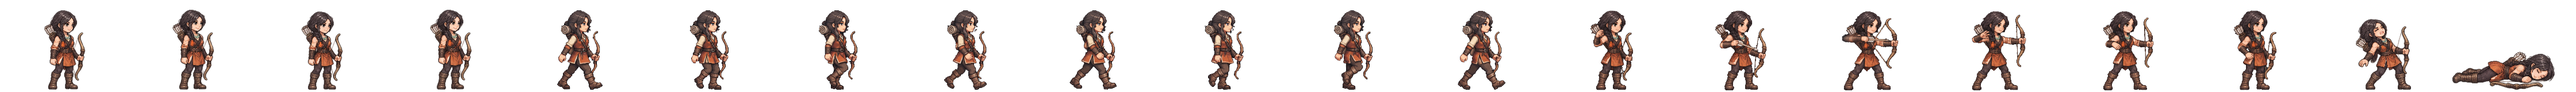
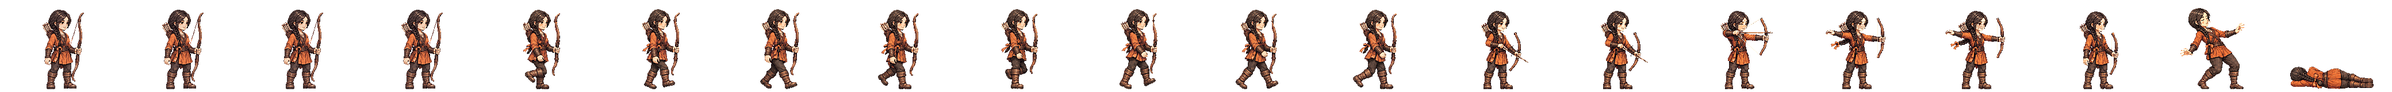
사로 노을 새 전투 띠를 게임에 넣음(서기·걷기·활 쏘기·쓰러짐·댕기 고쳐 매기)
활 쏘기의 활이 서기보다 조금 짧다(다시 그리기를 그림 도구가 거절 · 앞 판을 씀).
띠 검사 합격 · 시험 2162 통과.

Claude-Session: https://claude.ai/code/session_01TRiuN7s6aDfSnaHxrkctmU

diff --git a/src/realm/data/spritePx.ts b/src/realm/data/spritePx.ts
@@ -1,3 +1,3 @@
 /** public/realm/anim-px/manifest.json 의 사본 — tools/sprite-normalize.mjs 가 만든다 (손으로 고치지 말 것). 칸 [가로, 세로] · feet = 발 줄(칸 위에서 y) · bodyPx = 서 있는 몸 키 */
 import { expandManifest } from './sprite-manifest.ts'
-export const SPRITE_PX: Readonly<Record<string, { readonly cell: readonly [number, number]; readonly feet: number; readonly bodyPx: number; readonly kind: 'general' | 'soldier' | 'folk' | 'crowd'; readonly cells: number }>> = expandManifest<{ readonly cell: readonly [number, number]; readonly feet: number; readonly bodyPx: number; readonly kind: 'general' | 'soldier' | 'folk' | 'crowd'; readonly cells: number }>([{"cell":[166,128],"feet":126,"bodyPx":124,"kind":"soldier","cells":20},{"cell":[116,128],"feet":126,"bodyPx":117,"kind":"soldier","cells":20},{"cell":[127,128],"feet":126,"bodyPx":116,"kind":"soldier","cells":20},{"cell":[269,128],"feet":126,"bodyPx":126,"kind":"soldier","cells":20},{"cell":[503,128],"feet":126,"bodyPx":127,"kind":"soldier","cells":20},{"cell":[614,128],"feet":126,"bodyPx":126,"kind":"soldier","cells":20},{"cell":[200,160],"feet":156,"bodyPx":138,"kind":"general","cells":20},{"cell":[208,160],"feet":155,"bodyPx":138,"kind":"general","cells":20},{"cell":[208,160],"feet":154,"bodyPx":138,"kind":"general","cells":20},{"cell":[304,160],"feet":155,"bodyPx":135,"kind":"general","cells":20},{"cell":[224,160],"feet":156,"bodyPx":139,"kind":"general","cells":20},{"cell":[184,160],"feet":156,"bodyPx":138,"kind":"general","cells":20},{"cell":[208,160],"feet":154,"bodyPx":136,"kind":"general","cells":20},{"cell":[240,160],"feet":156,"bodyPx":138,"kind":"general","cells":20},{"cell":[232,160],"feet":156,"bodyPx":138,"kind":"general","cells":20},{"cell":[208,160],"feet":156,"bodyPx":138,"kind":"general","cells":20},{"cell":[168,160],"feet":156,"bodyPx":138,"kind":"general","cells":20},{"cell":[192,160],"feet":156,"bodyPx":138,"kind":"general","cells":20},{"cell":[168,160],"feet":156,"bodyPx":124,"kind":"general","cells":20},{"cell":[216,160],"feet":156,"bodyPx":130,"kind":"general","cells":20},{"cell":[200,160],"feet":156,"bodyPx":116,"kind":"general","cells":20},{"cell":[200,160],"feet":156,"bodyPx":135,"kind":"general","cells":20},{"cell":[280,160],"feet":156,"bodyPx":138,"kind":"general","cells":20},{"cell":[232,160],"feet":155,"bodyPx":138,"kind":"general","cells":20},{"cell":[232,160],"feet":156,"bodyPx":134,"kind":"general","cells":20},{"cell":[144,160],"feet":156,"bodyPx":70,"kind":"general","cells":20},{"cell":[208,160],"feet":156,"bodyPx":70,"kind":"general","cells":20},{"cell":[192,160],"feet":156,"bodyPx":70,"kind":"general","cells":20},{"cell":[240,160],"feet":155,"bodyPx":138,"kind":"general","cells":20},{"cell":[160,160],"feet":156,"bodyPx":135,"kind":"general","cells":20},{"cell":[192,160],"feet":156,"bodyPx":128,"kind":"general","cells":20},{"cell":[224,160],"feet":155,"bodyPx":138,"kind":"general","cells":20},{"cell":[232,160],"feet":156,"bodyPx":139,"kind":"general","cells":20},{"cell":[264,160],"feet":155,"bodyPx":138,"kind":"general","cells":20},{"cell":[216,160],"feet":156,"bodyPx":138,"kind":"general","cells":20},{"cell":[208,160],"feet":156,"bodyPx":134,"kind":"general","cells":20},{"cell":[176,160],"feet":156,"bodyPx":130,"kind":"general","cells":20},{"cell":[248,160],"feet":156,"bodyPx":138,"kind":"general","cells":20},{"cell":[248,160],"feet":155,"bodyPx":138,"kind":"general","cells":20},{"cell":[192,160],"feet":155,"bodyPx":138,"kind":"general","cells":20},{"cell":[192,160],"feet":156,"bodyPx":124,"kind":"general","cells":20},{"cell":[208,160],"feet":154,"bodyPx":131,"kind":"general","cells":20},{"cell":[256,160],"feet":156,"bodyPx":138,"kind":"general","cells":20},{"cell":[232,160],"feet":156,"bodyPx":73,"kind":"general","cells":20},{"cell":[256,160],"feet":155,"bodyPx":138,"kind":"general","cells":20},{"cell":[224,160],"feet":156,"bodyPx":138,"kind":"general","cells":20},{"cell":[264,160],"feet":156,"bodyPx":138,"kind":"general","cells":20},{"cell":[224,160],"feet":156,"bodyPx":128,"kind":"general","cells":20},{"cell":[176,160],"feet":156,"bodyPx":129,"kind":"general","cells":20},{"cell":[208,160],"feet":156,"bodyPx":132,"kind":"general","cells":20},{"cell":[216,160],"feet":155,"bodyPx":138,"kind":"general","cells":20},{"cell":[184,160],"feet":156,"bodyPx":122,"kind":"general","cells":20},{"cell":[176,160],"feet":156,"bodyPx":138,"kind":"general","cells":20},{"cell":[280,160],"feet":155,"bodyPx":133,"kind":"general","cells":20},{"cell":[176,160],"feet":156,"bodyPx":70,"kind":"general","cells":20},{"cell":[186,128],"feet":126,"bodyPx":127,"kind":"soldier","cells":20},{"cell":[298,128],"feet":126,"bodyPx":126,"kind":"soldier","cells":20},{"cell":[82,128],"feet":126,"bodyPx":114,"kind":"folk","cells":8},{"cell":[134,128],"feet":126,"bodyPx":119,"kind":"soldier","cells":20},{"cell":[380,128],"feet":126,"bodyPx":124,"kind":"soldier","cells":20},{"cell":[114,128],"feet":126,"bodyPx":115,"kind":"soldier","cells":20},{"cell":[122,128],"feet":126,"bodyPx":114,"kind":"soldier","cells":20},{"cell":[254,128],"feet":126,"bodyPx":128,"kind":"soldier","cells":20},{"cell":[438,128],"feet":126,"bodyPx":126,"kind":"soldier","cells":20},{"cell":[88,128],"feet":126,"bodyPx":113,"kind":"folk","cells":8},{"cell":[100,128],"feet":126,"bodyPx":115,"kind":"folk","cells":8},{"cell":[108,128],"feet":126,"bodyPx":115,"kind":"folk","cells":8},{"cell":[63,128],"feet":126,"bodyPx":113,"kind":"folk","cells":8},{"cell":[69,96],"feet":96,"bodyPx":96,"kind":"crowd","cells":1},{"cell":[54,96],"feet":96,"bodyPx":96,"kind":"crowd","cells":1},{"cell":[47,96],"feet":96,"bodyPx":96,"kind":"crowd","cells":1},{"cell":[49,96],"feet":96,"bodyPx":96,"kind":"crowd","cells":1},{"cell":[57,96],"feet":96,"bodyPx":96,"kind":"crowd","cells":1},{"cell":[55,96],"feet":96,"bodyPx":96,"kind":"crowd","cells":1},{"cell":[45,96],"feet":96,"bodyPx":96,"kind":"crowd","cells":1},{"cell":[53,96],"feet":96,"bodyPx":96,"kind":"crowd","cells":1},{"cell":[64,96],"feet":96,"bodyPx":96,"kind":"crowd","cells":1},{"cell":[208,160],"feet":154,"bodyPx":139,"kind":"general","cells":20},{"cell":[184,160],"feet":156,"bodyPx":124,"kind":"general","cells":20},{"cell":[184,160],"feet":156,"bodyPx":134,"kind":"general","cells":20},{"cell":[224,160],"feet":156,"bodyPx":133,"kind":"general","cells":20},{"cell":[192,160],"feet":156,"bodyPx":135,"kind":"general","cells":20},{"cell":[184,160],"feet":156,"bodyPx":137,"kind":"general","cells":20},{"cell":[216,160],"feet":156,"bodyPx":134,"kind":"general","cells":20},{"cell":[216,160],"feet":156,"bodyPx":132,"kind":"general","cells":20},{"cell":[288,160],"feet":156,"bodyPx":138,"kind":"general","cells":20},{"cell":[192,160],"feet":156,"bodyPx":118,"kind":"general","cells":20},{"cell":[192,160],"feet":156,"bodyPx":134,"kind":"general","cells":20},{"cell":[192,160],"feet":157,"bodyPx":139,"kind":"general","cells":20},{"cell":[184,160],"feet":156,"bodyPx":128,"kind":"general","cells":20},{"cell":[240,160],"feet":156,"bodyPx":128,"kind":"general","cells":20},{"cell":[184,160],"feet":156,"bodyPx":132,"kind":"general","cells":20},{"cell":[208,160],"feet":156,"bodyPx":123,"kind":"general","cells":20},{"cell":[208,160],"feet":154,"bodyPx":137,"kind":"general","cells":20},{"cell":[176,160],"feet":156,"bodyPx":116,"kind":"general","cells":20},{"cell":[272,160],"feet":156,"bodyPx":138,"kind":"general","cells":20},{"cell":[176,160],"feet":156,"bodyPx":122,"kind":"general","cells":20},{"cell":[232,160],"feet":156,"bodyPx":127,"kind":"general","cells":20},{"cell":[176,160],"feet":156,"bodyPx":137,"kind":"general","cells":20},{"cell":[184,160],"feet":156,"bodyPx":133,"kind":"general","cells":20}],[["axe",0],["bandit-chief",1],["bandit-club",2],["boat",3],["bow",4],["crossbow",5],["gen-adogan",6],["gen-alpyeong",7],["gen-ara",8],["gen-areum",8],["gen-aryeong",9],["gen-bakdal",6],["gen-baram",10],["gen-bdanbi",11],["gen-beom",12],["gen-beombal",11],["gen-beomi",13],["gen-bira",14],["gen-biryu",15],["gen-budeul",16],["gen-byeol",17],["gen-daemusin",18],["gen-daeso",19],["gen-dallae2",11],["gen-dalli",11],["gen-damul",20],["gen-danbi",15],["gen-dangung",17],["gen-darae",21],["gen-dokmudeom",7],["gen-duman",22],["gen-eomni",23],["gen-eureum",24],["gen-g-bow",25],["gen-g-spear",26],["gen-g-sword",27],["gen-gaennae",6],["gen-gamsil",28],["gen-gaon",29],["gen-geota",15],["gen-geumbawi",11],["gen-geumha",30],["gen-goeun",15],["gen-gom",31],["gen-gomok",15],["gen-gureum",28],["gen-guryema",17],["gen-gwaeyu",14],["gen-haebi",8],["gen-haedal",6],["gen-haesol",32],["gen-halla",7],["gen-heo",33],["gen-hneoul",11],["gen-hogong",34],["gen-hojin",15],["gen-horselord",35],["gen-hwalmi",36],["gen-hyeokgeose",17],["gen-hyeopbo",6],["gen-irang",15],["gen-jibaekho",37],["gen-jinha",38],["gen-jita",39],["gen-jumong",40],["gen-keundol",7],["gen-maehwa",41],["gen-maenun",17],["gen-malgalgi",42],["gen-mari",13],["gen-maro",37],["gen-maryeo",15],["gen-mdallae",32],["gen-mir",6],["gen-mount",43],["gen-mulbeom",44],["gen-mulsae",34],["gen-musoe",34],["gen-noeul",45],["gen-nuri",46],["gen-ocheongan",45],["gen-odi",38],["gen-odogan",6],["gen-ogan",17],["gen-oi",47],["gen-olddaeso",24],["gen-onjo",48],["gen-pidogan",15],["gen-sagong",31],["gen-sdallae",6],["gen-sincheongan",34],["gen-singwigan",34],["gen-sinneoul",23],["gen-sobeol",23],["gen-soebi",6],["gen-soebo",49],["gen-soenun",37],["gen-sogeumbi",50],["gen-songbi",45],["gen-songyang",51],["gen-sori",52],["gen-soseono",53],["gen-suro",17],["gen-tahae",6],["gen-tneoul",45],["gen-w-bow",25],["gen-w-spear",54],["gen-waechief",15],["gen-wan",34],["gen-yeodogan",15],["gen-yucheongan",15],["gen-yusugan",37],["horse",55],["marine",56],["migrant",57],["militia",58],["pike",59],["pirate-captain",60],["pirate-sword",61],["shield",62],["spear",63],["villager-builder",64],["villager-farmer",65],["villager-porter",66],["villager-woman",67],["crowd-b1",68],["crowd-b2",69],["crowd-b3",70],["crowd-b4",71],["crowd-b5",72],["crowd-b6",73],["crowd-f1",68],["crowd-f2",73],["crowd-f3",74],["crowd-f4",75],["crowd-f5",68],["crowd-f6",76],["gen-dalbit",15],["gen-base-g-07-drunk-warrior",17],["gen-base-g-40-anya-adan",15],["gen-base-w-13-young-archer",8],["gen-base-g-03-sea-trader",13],["gen-base-w-10-pirate-captain",77],["gen-base-w-64-miri-dallae",77],["gen-base-g-41-goja-bau",13],["gen-base-g-42-dokro-garam",46],["gen-base-g-09-farmer-conscript",34],["gen-base-w-02-goguryeo-lady",34],["gen-base-w-17-mahan-pearl-diver",8],["gen-base-g-17-saro-isageum",49],["gen-base-g-18-daegaya-king",78],["gen-base-g-35-dabeol-dalgu",15],["gen-base-g-19-sabeol-veteran",34],["gen-base-w-23-usisan-whale-queen",34],["gen-base-g-36-gammun-gamdol",45],["gen-base-g-20-samul-sea-lord",42],["gen-base-g-37-eumjeup-jeup",11],["gen-base-g-38-chopal-palmae",17],["gen-base-w-75-daegaya-soemoe",17],["gen-base-g-45-dabeol-deulgae",11],["gen-base-g-04-jinhan-giant",15],["gen-base-g-08-veteran",15],["gen-base-w-18-jinhan-salt-widow",15],["gen-base-w-12-court-dancer",79],["gen-base-w-83-gyeonji-beodeul",80],["gen-base-w-05-baekje-queen",81],["gen-base-w-21-baekje-court-dancer",11],["gen-base-g-01-master-smith",82],["gen-base-g-93-jomun-solgae",36],["gen-base-g-57-bihwa-neup",13],["gen-base-w-72-eumjeup-beol",15],["gen-base-w-102-garak-dana",34],["gen-base-g-68-baekje-onnuri",15],["gen-base-w-27-mokji-jinha",6],["gen-base-g-22-ungcheon-gomnae",6],["gen-base-g-23-sangdang-soedal",15],["gen-base-g-24-wansan-onsan",6],["gen-base-g-25-balla-keunmoe",34],["gen-base-g-61-heomcheuk-bawi",34],["gen-base-g-88-wander-soeul",45],["gen-base-w-14-feast-spy",6],["gen-base-g-12-silla-youth",83],["gen-base-w-08-mahan-warrior",13],["gen-base-g-62-beonye-hanul",13],["gen-base-g-63-heomcheuk-beogeum",15],["gen-base-g-84-wander-seoneul",15],["gen-base-w-50-siljik-mulga",34],["gen-base-g-46-uga-nureongso",34],["gen-base-w-80-usan-gangchi",13],["gen-base-g-47-guga-sanyanggae",34],["gen-base-w-76-gampyeong-baetsagong",37],["gen-base-g-05-mahan-chieftain",84],["gen-base-g-58-usan-uhae",15],["gen-base-g-27-maek-maekdol",15],["gen-base-w-53-hwanna-gabi",16],["gen-base-w-29-golpo-janmul",37],["gen-base-g-53-baekje-haeru",6],["gen-base-w-71-yeonna-neoul",13],["gen-base-w-79-yangmaek-solmae",34],["gen-base-w-34-chopal-deulme",46],["gen-base-g-44-maga-malgup",85],["gen-base-w-31-dabeol-dalbit",77],["gen-base-g-51-biryuna-mulgyeol",45],["gen-base-g-48-gwanna-musoe",15],["gen-base-g-32-uga-sodu",14],["gen-base-g-49-goguryeo-sona",86],["gen-base-g-30-gwanna-soemoe",45],["gen-base-g-52-tamna-oreum",11],["gen-base-g-29-yeonna-myeongsol",40],["gen-base-w-56-dongokjeo-sogeum",87],["gen-base-g-54-mokji-mahan",14],["gen-base-g-33-jeoga-metdol",17],["gen-base-w-36-baekje-maena",17],["gen-base-w-38-sangdang-bulmae",6],["gen-base-w-39-gosaburi-galmae",88],["gen-base-w-40-mujin-munui",49],["gen-base-w-41-hwanna-beodeul",89],["gen-base-w-43-uga-nuri",42],["gen-base-w-45-tamna-oreumbi",11],["gen-base-g-60-golbeol-golgae",11],["gen-base-g-61-apdok-ap",34],["gen-base-g-62-gammun-gamnamu",6],["gen-base-g-63-chopal-yeoul",37],["gen-base-g-64-michuhol-sogeumkkun",13],["gen-base-g-65-sangdang-soemangchi",45],["gen-base-g-66-geonma-malbalgup",90],["gen-base-g-67-gosaburi-buri",91],["gen-base-g-68-mujin-bitgoeul",11],["gen-base-g-69-goryong-yong",45],["gen-base-g-70-siljik-pado",13],["gen-base-w-81-byeokjin-byeolbit",14],["gen-base-w-46-geonma-maru",37],["gen-base-w-48-mujin-mudeung",13],["gen-base-g-26-gampyeong-gaetbeol",14],["gen-base-g-60-eupcha-hangyeol",92],["gen-base-g-15-shaman-man",34],["gen-base-g-85-wander-ure",37],["gen-base-g-43-hwanna-amnok",15],["gen-base-g-50-bullae-gwaha",81],["gen-base-g-55-saro-bakdal",15],["gen-base-g-56-haseulla-gwahama",6],["gen-base-w-06-buyeo-huntress",93],["gen-base-w-22-dongye-tiger-huntress",8],["gen-base-w-25-bihwa-priestess",34],["gen-base-w-24-apdok-queen",11],["gen-base-w-61-iseo-sinae",15],["gen-base-w-26-iseo-tomboy-general",46],["gen-base-g-59-yangmaek-maekson",94],["gen-aw1-haebi",45],["gen-aw1-soseono",95],["gen-aw1-gamsil",11],["gen-aw1-mir",52],["gen-aw1-dangung",6],["gen-aw1-ara",45],["gen-aw1-jumong",96],["gen-aw1-onjo",97],["gen-aw1-base-w-83-gyeonji-beodeul",17],["gen-aw1-heo",46],["gen-aw1-base-g-38-chopal-palmae",6],["gen-aw1-base-w-25-bihwa-priestess",79],["gen-aw1-sori",16],["gen-aw1-gomok",6],["gen-aw1-irang",17],["gen-aw1-budeul",16],["gen-aw1-gom",13],["gen-aw1-sdallae",6],["gen-aw1-base-w-13-young-archer",6],["gen-aw1-base-w-36-baekje-maena",98],["gen-aw1-base-g-09-farmer-conscript",46],["gen-aw1-base-w-02-goguryeo-lady",99],["gen-aw1-haedal",11],["gen-aw1-hogong",6],["gen-aw1-maehwa",52],["gen-aw1-base-w-06-buyeo-huntress",14],["gen-aw1-base-w-08-mahan-warrior",45],["gen-aw1-base-w-29-golpo-janmul",45],["gen-aw1-base-w-31-dabeol-dalbit",17],["gen-aw1-base-w-38-sangdang-bulmae",16],["gen-aw1-bira",34],["gen-aw1-base-w-53-hwanna-gabi",16],["gen-aw1-base-w-56-dongokjeo-sogeum",52],["gen-aw1-base-w-72-eumjeup-beol",17],["gen-aw1-bdanbi",16],["gen-aw1-beom",11],["gen-aw1-beombal",11],["gen-aw1-byeol",17],["gen-aw1-dalli",52],["gen-aw1-malgalgi",37],["gen-aw1-sincheongan",34]])
+export const SPRITE_PX: Readonly<Record<string, { readonly cell: readonly [number, number]; readonly feet: number; readonly bodyPx: number; readonly kind: 'general' | 'soldier' | 'folk' | 'crowd'; readonly cells: number }>> = expandManifest<{ readonly cell: readonly [number, number]; readonly feet: number; readonly bodyPx: number; readonly kind: 'general' | 'soldier' | 'folk' | 'crowd'; readonly cells: number }>([{"cell":[166,128],"feet":126,"bodyPx":124,"kind":"soldier","cells":20},{"cell":[116,128],"feet":126,"bodyPx":117,"kind":"soldier","cells":20},{"cell":[127,128],"feet":126,"bodyPx":116,"kind":"soldier","cells":20},{"cell":[269,128],"feet":126,"bodyPx":126,"kind":"soldier","cells":20},{"cell":[503,128],"feet":126,"bodyPx":127,"kind":"soldier","cells":20},{"cell":[614,128],"feet":126,"bodyPx":126,"kind":"soldier","cells":20},{"cell":[200,160],"feet":156,"bodyPx":138,"kind":"general","cells":20},{"cell":[208,160],"feet":155,"bodyPx":138,"kind":"general","cells":20},{"cell":[208,160],"feet":154,"bodyPx":138,"kind":"general","cells":20},{"cell":[304,160],"feet":155,"bodyPx":135,"kind":"general","cells":20},{"cell":[224,160],"feet":156,"bodyPx":139,"kind":"general","cells":20},{"cell":[184,160],"feet":156,"bodyPx":138,"kind":"general","cells":20},{"cell":[208,160],"feet":154,"bodyPx":136,"kind":"general","cells":20},{"cell":[240,160],"feet":156,"bodyPx":138,"kind":"general","cells":20},{"cell":[232,160],"feet":156,"bodyPx":138,"kind":"general","cells":20},{"cell":[208,160],"feet":156,"bodyPx":138,"kind":"general","cells":20},{"cell":[168,160],"feet":156,"bodyPx":138,"kind":"general","cells":20},{"cell":[192,160],"feet":156,"bodyPx":138,"kind":"general","cells":20},{"cell":[168,160],"feet":156,"bodyPx":124,"kind":"general","cells":20},{"cell":[216,160],"feet":156,"bodyPx":130,"kind":"general","cells":20},{"cell":[200,160],"feet":156,"bodyPx":116,"kind":"general","cells":20},{"cell":[200,160],"feet":156,"bodyPx":135,"kind":"general","cells":20},{"cell":[280,160],"feet":156,"bodyPx":138,"kind":"general","cells":20},{"cell":[232,160],"feet":155,"bodyPx":138,"kind":"general","cells":20},{"cell":[232,160],"feet":156,"bodyPx":134,"kind":"general","cells":20},{"cell":[144,160],"feet":156,"bodyPx":70,"kind":"general","cells":20},{"cell":[208,160],"feet":156,"bodyPx":70,"kind":"general","cells":20},{"cell":[192,160],"feet":156,"bodyPx":70,"kind":"general","cells":20},{"cell":[240,160],"feet":155,"bodyPx":138,"kind":"general","cells":20},{"cell":[160,160],"feet":156,"bodyPx":135,"kind":"general","cells":20},{"cell":[192,160],"feet":156,"bodyPx":128,"kind":"general","cells":20},{"cell":[224,160],"feet":155,"bodyPx":138,"kind":"general","cells":20},{"cell":[232,160],"feet":156,"bodyPx":139,"kind":"general","cells":20},{"cell":[264,160],"feet":155,"bodyPx":138,"kind":"general","cells":20},{"cell":[216,160],"feet":156,"bodyPx":138,"kind":"general","cells":20},{"cell":[208,160],"feet":156,"bodyPx":134,"kind":"general","cells":20},{"cell":[176,160],"feet":156,"bodyPx":130,"kind":"general","cells":20},{"cell":[248,160],"feet":156,"bodyPx":138,"kind":"general","cells":20},{"cell":[248,160],"feet":155,"bodyPx":138,"kind":"general","cells":20},{"cell":[192,160],"feet":155,"bodyPx":138,"kind":"general","cells":20},{"cell":[192,160],"feet":156,"bodyPx":124,"kind":"general","cells":20},{"cell":[208,160],"feet":154,"bodyPx":131,"kind":"general","cells":20},{"cell":[256,160],"feet":156,"bodyPx":138,"kind":"general","cells":20},{"cell":[232,160],"feet":156,"bodyPx":73,"kind":"general","cells":20},{"cell":[256,160],"feet":155,"bodyPx":138,"kind":"general","cells":20},{"cell":[264,160],"feet":156,"bodyPx":138,"kind":"general","cells":20},{"cell":[224,160],"feet":156,"bodyPx":138,"kind":"general","cells":20},{"cell":[224,160],"feet":156,"bodyPx":128,"kind":"general","cells":20},{"cell":[176,160],"feet":156,"bodyPx":129,"kind":"general","cells":20},{"cell":[208,160],"feet":156,"bodyPx":132,"kind":"general","cells":20},{"cell":[216,160],"feet":155,"bodyPx":138,"kind":"general","cells":20},{"cell":[184,160],"feet":156,"bodyPx":122,"kind":"general","cells":20},{"cell":[176,160],"feet":156,"bodyPx":138,"kind":"general","cells":20},{"cell":[280,160],"feet":155,"bodyPx":133,"kind":"general","cells":20},{"cell":[176,160],"feet":156,"bodyPx":70,"kind":"general","cells":20},{"cell":[186,128],"feet":126,"bodyPx":127,"kind":"soldier","cells":20},{"cell":[298,128],"feet":126,"bodyPx":126,"kind":"soldier","cells":20},{"cell":[82,128],"feet":126,"bodyPx":114,"kind":"folk","cells":8},{"cell":[134,128],"feet":126,"bodyPx":119,"kind":"soldier","cells":20},{"cell":[380,128],"feet":126,"bodyPx":124,"kind":"soldier","cells":20},{"cell":[114,128],"feet":126,"bodyPx":115,"kind":"soldier","cells":20},{"cell":[122,128],"feet":126,"bodyPx":114,"kind":"soldier","cells":20},{"cell":[254,128],"feet":126,"bodyPx":128,"kind":"soldier","cells":20},{"cell":[438,128],"feet":126,"bodyPx":126,"kind":"soldier","cells":20},{"cell":[88,128],"feet":126,"bodyPx":113,"kind":"folk","cells":8},{"cell":[100,128],"feet":126,"bodyPx":115,"kind":"folk","cells":8},{"cell":[108,128],"feet":126,"bodyPx":115,"kind":"folk","cells":8},{"cell":[63,128],"feet":126,"bodyPx":113,"kind":"folk","cells":8},{"cell":[69,96],"feet":96,"bodyPx":96,"kind":"crowd","cells":1},{"cell":[54,96],"feet":96,"bodyPx":96,"kind":"crowd","cells":1},{"cell":[47,96],"feet":96,"bodyPx":96,"kind":"crowd","cells":1},{"cell":[49,96],"feet":96,"bodyPx":96,"kind":"crowd","cells":1},{"cell":[57,96],"feet":96,"bodyPx":96,"kind":"crowd","cells":1},{"cell":[55,96],"feet":96,"bodyPx":96,"kind":"crowd","cells":1},{"cell":[45,96],"feet":96,"bodyPx":96,"kind":"crowd","cells":1},{"cell":[53,96],"feet":96,"bodyPx":96,"kind":"crowd","cells":1},{"cell":[64,96],"feet":96,"bodyPx":96,"kind":"crowd","cells":1},{"cell":[208,160],"feet":154,"bodyPx":139,"kind":"general","cells":20},{"cell":[184,160],"feet":156,"bodyPx":124,"kind":"general","cells":20},{"cell":[184,160],"feet":156,"bodyPx":134,"kind":"general","cells":20},{"cell":[224,160],"feet":156,"bodyPx":133,"kind":"general","cells":20},{"cell":[192,160],"feet":156,"bodyPx":135,"kind":"general","cells":20},{"cell":[184,160],"feet":156,"bodyPx":137,"kind":"general","cells":20},{"cell":[216,160],"feet":156,"bodyPx":134,"kind":"general","cells":20},{"cell":[216,160],"feet":156,"bodyPx":132,"kind":"general","cells":20},{"cell":[288,160],"feet":156,"bodyPx":138,"kind":"general","cells":20},{"cell":[192,160],"feet":156,"bodyPx":118,"kind":"general","cells":20},{"cell":[192,160],"feet":156,"bodyPx":134,"kind":"general","cells":20},{"cell":[192,160],"feet":157,"bodyPx":139,"kind":"general","cells":20},{"cell":[184,160],"feet":156,"bodyPx":128,"kind":"general","cells":20},{"cell":[240,160],"feet":156,"bodyPx":128,"kind":"general","cells":20},{"cell":[184,160],"feet":156,"bodyPx":132,"kind":"general","cells":20},{"cell":[208,160],"feet":156,"bodyPx":123,"kind":"general","cells":20},{"cell":[208,160],"feet":154,"bodyPx":137,"kind":"general","cells":20},{"cell":[176,160],"feet":156,"bodyPx":116,"kind":"general","cells":20},{"cell":[272,160],"feet":156,"bodyPx":138,"kind":"general","cells":20},{"cell":[176,160],"feet":156,"bodyPx":122,"kind":"general","cells":20},{"cell":[232,160],"feet":156,"bodyPx":127,"kind":"general","cells":20},{"cell":[176,160],"feet":156,"bodyPx":137,"kind":"general","cells":20},{"cell":[184,160],"feet":156,"bodyPx":133,"kind":"general","cells":20}],[["axe",0],["bandit-chief",1],["bandit-club",2],["boat",3],["bow",4],["crossbow",5],["gen-adogan",6],["gen-alpyeong",7],["gen-ara",8],["gen-areum",8],["gen-aryeong",9],["gen-bakdal",6],["gen-baram",10],["gen-bdanbi",11],["gen-beom",12],["gen-beombal",11],["gen-beomi",13],["gen-bira",14],["gen-biryu",15],["gen-budeul",16],["gen-byeol",17],["gen-daemusin",18],["gen-daeso",19],["gen-dallae2",11],["gen-dalli",11],["gen-damul",20],["gen-danbi",15],["gen-dangung",17],["gen-darae",21],["gen-dokmudeom",7],["gen-duman",22],["gen-eomni",23],["gen-eureum",24],["gen-g-bow",25],["gen-g-spear",26],["gen-g-sword",27],["gen-gaennae",6],["gen-gamsil",28],["gen-gaon",29],["gen-geota",15],["gen-geumbawi",11],["gen-geumha",30],["gen-goeun",15],["gen-gom",31],["gen-gomok",15],["gen-gureum",28],["gen-guryema",17],["gen-gwaeyu",14],["gen-haebi",8],["gen-haedal",6],["gen-haesol",32],["gen-halla",7],["gen-heo",33],["gen-hneoul",11],["gen-hogong",34],["gen-hojin",15],["gen-horselord",35],["gen-hwalmi",36],["gen-hyeokgeose",17],["gen-hyeopbo",6],["gen-irang",15],["gen-jibaekho",37],["gen-jinha",38],["gen-jita",39],["gen-jumong",40],["gen-keundol",7],["gen-maehwa",41],["gen-maenun",17],["gen-malgalgi",42],["gen-mari",13],["gen-maro",37],["gen-maryeo",15],["gen-mdallae",32],["gen-mir",6],["gen-mount",43],["gen-mulbeom",44],["gen-mulsae",34],["gen-musoe",34],["gen-noeul",8],["gen-nuri",45],["gen-ocheongan",46],["gen-odi",38],["gen-odogan",6],["gen-ogan",17],["gen-oi",47],["gen-olddaeso",24],["gen-onjo",48],["gen-pidogan",15],["gen-sagong",31],["gen-sdallae",6],["gen-sincheongan",34],["gen-singwigan",34],["gen-sinneoul",23],["gen-sobeol",23],["gen-soebi",6],["gen-soebo",49],["gen-soenun",37],["gen-sogeumbi",50],["gen-songbi",46],["gen-songyang",51],["gen-sori",52],["gen-soseono",53],["gen-suro",17],["gen-tahae",6],["gen-tneoul",46],["gen-w-bow",25],["gen-w-spear",54],["gen-waechief",15],["gen-wan",34],["gen-yeodogan",15],["gen-yucheongan",15],["gen-yusugan",37],["horse",55],["marine",56],["migrant",57],["militia",58],["pike",59],["pirate-captain",60],["pirate-sword",61],["shield",62],["spear",63],["villager-builder",64],["villager-farmer",65],["villager-porter",66],["villager-woman",67],["crowd-b1",68],["crowd-b2",69],["crowd-b3",70],["crowd-b4",71],["crowd-b5",72],["crowd-b6",73],["crowd-f1",68],["crowd-f2",73],["crowd-f3",74],["crowd-f4",75],["crowd-f5",68],["crowd-f6",76],["gen-dalbit",15],["gen-base-g-07-drunk-warrior",17],["gen-base-g-40-anya-adan",15],["gen-base-w-13-young-archer",8],["gen-base-g-03-sea-trader",13],["gen-base-w-10-pirate-captain",77],["gen-base-w-64-miri-dallae",77],["gen-base-g-41-goja-bau",13],["gen-base-g-42-dokro-garam",45],["gen-base-g-09-farmer-conscript",34],["gen-base-w-02-goguryeo-lady",34],["gen-base-w-17-mahan-pearl-diver",8],["gen-base-g-17-saro-isageum",49],["gen-base-g-18-daegaya-king",78],["gen-base-g-35-dabeol-dalgu",15],["gen-base-g-19-sabeol-veteran",34],["gen-base-w-23-usisan-whale-queen",34],["gen-base-g-36-gammun-gamdol",46],["gen-base-g-20-samul-sea-lord",42],["gen-base-g-37-eumjeup-jeup",11],["gen-base-g-38-chopal-palmae",17],["gen-base-w-75-daegaya-soemoe",17],["gen-base-g-45-dabeol-deulgae",11],["gen-base-g-04-jinhan-giant",15],["gen-base-g-08-veteran",15],["gen-base-w-18-jinhan-salt-widow",15],["gen-base-w-12-court-dancer",79],["gen-base-w-83-gyeonji-beodeul",80],["gen-base-w-05-baekje-queen",81],["gen-base-w-21-baekje-court-dancer",11],["gen-base-g-01-master-smith",82],["gen-base-g-93-jomun-solgae",36],["gen-base-g-57-bihwa-neup",13],["gen-base-w-72-eumjeup-beol",15],["gen-base-w-102-garak-dana",34],["gen-base-g-68-baekje-onnuri",15],["gen-base-w-27-mokji-jinha",6],["gen-base-g-22-ungcheon-gomnae",6],["gen-base-g-23-sangdang-soedal",15],["gen-base-g-24-wansan-onsan",6],["gen-base-g-25-balla-keunmoe",34],["gen-base-g-61-heomcheuk-bawi",34],["gen-base-g-88-wander-soeul",46],["gen-base-w-14-feast-spy",6],["gen-base-g-12-silla-youth",83],["gen-base-w-08-mahan-warrior",13],["gen-base-g-62-beonye-hanul",13],["gen-base-g-63-heomcheuk-beogeum",15],["gen-base-g-84-wander-seoneul",15],["gen-base-w-50-siljik-mulga",34],["gen-base-g-46-uga-nureongso",34],["gen-base-w-80-usan-gangchi",13],["gen-base-g-47-guga-sanyanggae",34],["gen-base-w-76-gampyeong-baetsagong",37],["gen-base-g-05-mahan-chieftain",84],["gen-base-g-58-usan-uhae",15],["gen-base-g-27-maek-maekdol",15],["gen-base-w-53-hwanna-gabi",16],["gen-base-w-29-golpo-janmul",37],["gen-base-g-53-baekje-haeru",6],["gen-base-w-71-yeonna-neoul",13],["gen-base-w-79-yangmaek-solmae",34],["gen-base-w-34-chopal-deulme",45],["gen-base-g-44-maga-malgup",85],["gen-base-w-31-dabeol-dalbit",77],["gen-base-g-51-biryuna-mulgyeol",46],["gen-base-g-48-gwanna-musoe",15],["gen-base-g-32-uga-sodu",14],["gen-base-g-49-goguryeo-sona",86],["gen-base-g-30-gwanna-soemoe",46],["gen-base-g-52-tamna-oreum",11],["gen-base-g-29-yeonna-myeongsol",40],["gen-base-w-56-dongokjeo-sogeum",87],["gen-base-g-54-mokji-mahan",14],["gen-base-g-33-jeoga-metdol",17],["gen-base-w-36-baekje-maena",17],["gen-base-w-38-sangdang-bulmae",6],["gen-base-w-39-gosaburi-galmae",88],["gen-base-w-40-mujin-munui",49],["gen-base-w-41-hwanna-beodeul",89],["gen-base-w-43-uga-nuri",42],["gen-base-w-45-tamna-oreumbi",11],["gen-base-g-60-golbeol-golgae",11],["gen-base-g-61-apdok-ap",34],["gen-base-g-62-gammun-gamnamu",6],["gen-base-g-63-chopal-yeoul",37],["gen-base-g-64-michuhol-sogeumkkun",13],["gen-base-g-65-sangdang-soemangchi",46],["gen-base-g-66-geonma-malbalgup",90],["gen-base-g-67-gosaburi-buri",91],["gen-base-g-68-mujin-bitgoeul",11],["gen-base-g-69-goryong-yong",46],["gen-base-g-70-siljik-pado",13],["gen-base-w-81-byeokjin-byeolbit",14],["gen-base-w-46-geonma-maru",37],["gen-base-w-48-mujin-mudeung",13],["gen-base-g-26-gampyeong-gaetbeol",14],["gen-base-g-60-eupcha-hangyeol",92],["gen-base-g-15-shaman-man",34],["gen-base-g-85-wander-ure",37],["gen-base-g-43-hwanna-amnok",15],["gen-base-g-50-bullae-gwaha",81],["gen-base-g-55-saro-bakdal",15],["gen-base-g-56-haseulla-gwahama",6],["gen-base-w-06-buyeo-huntress",93],["gen-base-w-22-dongye-tiger-huntress",8],["gen-base-w-25-bihwa-priestess",34],["gen-base-w-24-apdok-queen",11],["gen-base-w-61-iseo-sinae",15],["gen-base-w-26-iseo-tomboy-general",45],["gen-base-g-59-yangmaek-maekson",94],["gen-aw1-haebi",46],["gen-aw1-soseono",95],["gen-aw1-gamsil",11],["gen-aw1-mir",52],["gen-aw1-dangung",6],["gen-aw1-ara",46],["gen-aw1-jumong",96],["gen-aw1-onjo",97],["gen-aw1-base-w-83-gyeonji-beodeul",17],["gen-aw1-heo",45],["gen-aw1-base-g-38-chopal-palmae",6],["gen-aw1-base-w-25-bihwa-priestess",79],["gen-aw1-sori",16],["gen-aw1-gomok",6],["gen-aw1-irang",17],["gen-aw1-budeul",16],["gen-aw1-gom",13],["gen-aw1-sdallae",6],["gen-aw1-base-w-13-young-archer",6],["gen-aw1-base-w-36-baekje-maena",98],["gen-aw1-base-g-09-farmer-conscript",45],["gen-aw1-base-w-02-goguryeo-lady",99],["gen-aw1-haedal",11],["gen-aw1-hogong",6],["gen-aw1-maehwa",52],["gen-aw1-base-w-06-buyeo-huntress",14],["gen-aw1-base-w-08-mahan-warrior",46],["gen-aw1-base-w-29-golpo-janmul",46],["gen-aw1-base-w-31-dabeol-dalbit",17],["gen-aw1-base-w-38-sangdang-bulmae",16],["gen-aw1-bira",34],["gen-aw1-base-w-53-hwanna-gabi",16],["gen-aw1-base-w-56-dongokjeo-sogeum",52],["gen-aw1-base-w-72-eumjeup-beol",17],["gen-aw1-bdanbi",16],["gen-aw1-beom",11],["gen-aw1-beombal",11],["gen-aw1-byeol",17],["gen-aw1-dalli",52],["gen-aw1-malgalgi",37],["gen-aw1-sincheongan",34]])

diff --git a/src/duel/view.ts b/src/duel/view.ts
@@ -100,7 +100,7 @@ const crowdFront = [1, 2, 3, 4, 5, 6].map((i) => img(`realm/duel/crowd/b${i}.png
 const crowdReady = (set: HTMLImageElement[]): boolean => set.every((im) => im.complete && im.naturalWidth > 0)
 const pxMode = cfg.px !== false && params.get('px') !== '0'
 /** 겨루기 전용 옛 띠(duel/sprites) 대신 열전과 같은 도트 띠(anim-px)를 쓰는 장수 — 두 판에서 같은 모습 · 서기 계획·쓰러지는 칸도 같다 (11-23 범 · 매화 · 달빛 · 11-24 해비 · 아룸) */
-const PX_DUEL: ReadonlySet<string> = new Set(['beom', 'maehwa', 'base-w-31-dabeol-dalbit', 'haebi', 'areum', 'base-w-13-young-archer', 'base-w-10-pirate-captain', 'base-w-17-mahan-pearl-diver', 'base-w-06-buyeo-huntress', 'base-w-64-miri-dallae', 'ara', 'base-w-22-dongye-tiger-huntress'])
+const PX_DUEL: ReadonlySet<string> = new Set(['beom', 'maehwa', 'base-w-31-dabeol-dalbit', 'haebi', 'areum', 'base-w-13-young-archer', 'base-w-10-pirate-captain', 'base-w-17-mahan-pearl-diver', 'base-w-06-buyeo-huntress', 'base-w-64-miri-dallae', 'ara', 'base-w-22-dongye-tiger-huntress', 'noeul'])
 /** 띠 그림 — 기본은 anim-px(도트 규격) 먼저, 없으면 옛 띠로 (img 의 onerror 가 갈아 끼운다) */
 const strip = (s: string): HTMLImageElement => pxMode
   ? DUEL_ATLASES[s] !== undefined && !PX_DUEL.has(s) ? img(`realm/duel/sprites/gen-${s}.png`, `realm/anim-px/gen-${s}.png`)

diff --git a/src/tune/params.ts b/src/tune/params.ts
@@ -1422,6 +1422,7 @@ export const HAEBI_IDLE = {
     'base-w-64-miri-dallae': { cells: 34, base: [0, 1], hold: 2.4, fall: [18, 20, 21, 19], quirk: [22, 23, 24, 25], quirkTimes: [.3, .32, .4, .28], attack: { cells: [26, 27, 28, 29, 30, 31, 32, 33], times: [.09, .08, .11, .05, .15, .07, .08, .12], hit: 4 }, xGeom: { h: 224, root: 92, foot: 216 } },
     ara: { cells: 34, base: [0, 1], hold: 2.4, fall: [18, 20, 21, 19], quirk: [22, 23, 24, 25], quirkTimes: [.3, .32, .4, .28], attack: { cells: [26, 27, 28, 29, 30, 31, 32, 33], times: [.09, .08, .11, .05, .15, .07, .08, .12], hit: 4 }, xGeom: { h: 224, root: 92, foot: 216 } },
     'base-w-22-dongye-tiger-huntress': { cells: 34, base: [0, 1], hold: 2.4, fall: [18, 20, 21, 19], quirk: [22, 23, 24, 25], quirkTimes: [.3, .32, .4, .28], attack: { cells: [26, 27, 28, 29, 30, 31, 32, 33], times: [.09, .08, .11, .05, .15, .07, .08, .12], hit: 4 }, xGeom: { h: 224, root: 92, foot: 216 } },
+    noeul: { cells: 26, base: [0, 1], hold: 2.4, fall: [18, 20, 21, 19], quirk: [22, 23, 24, 25], quirkTimes: [.28, .3, .42, .25] },
   },
 } as const
 export const HAEBI_ANIM = {
